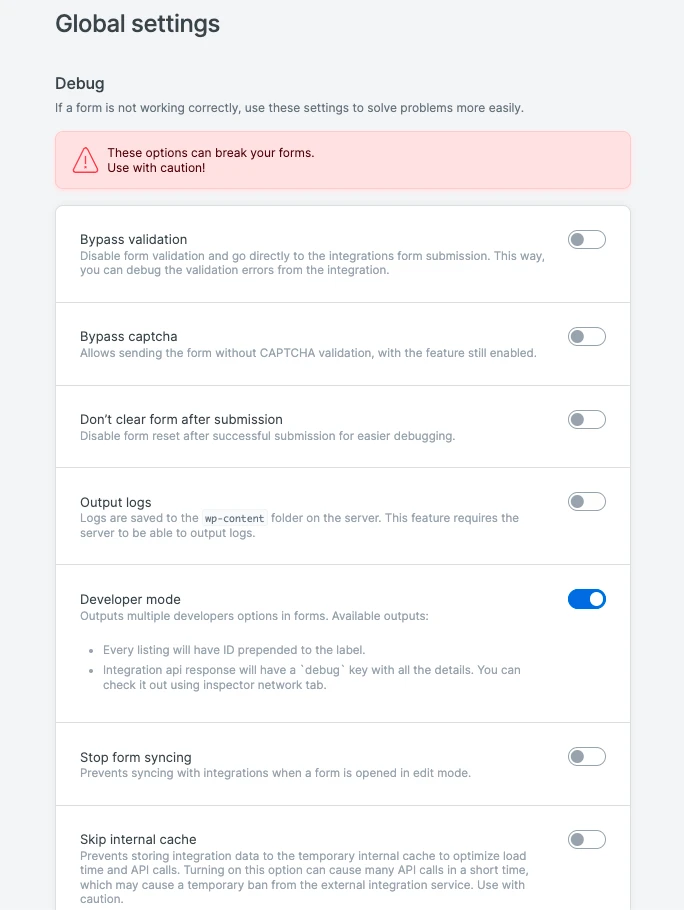
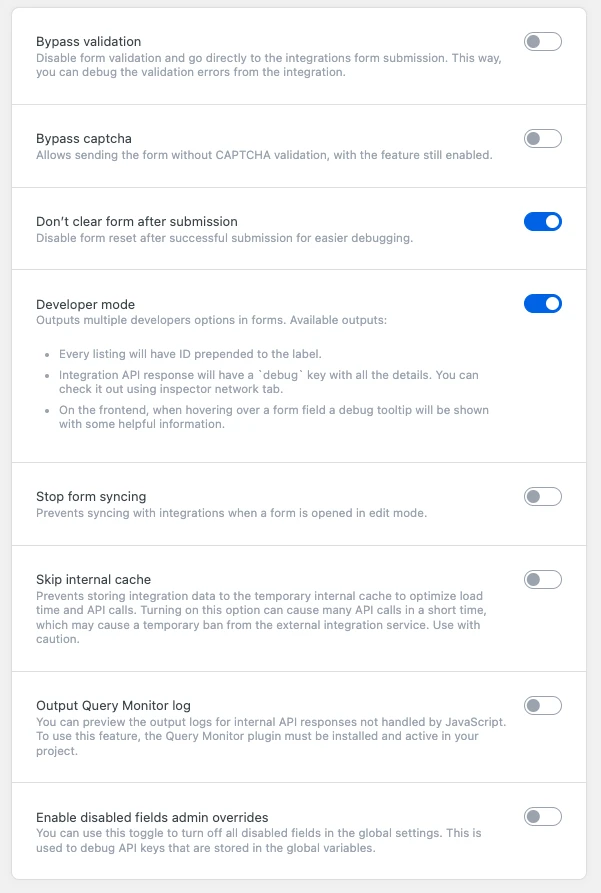
updating debug docs

diff --git a/website/forms/features/debug.md b/website/forms/features/debug.md
@@ -6,3 +6,36 @@ title: Debugging
 The debugging screen provides configuration options and overrides default functionalities for developers, but caution should be used as these options can break form functionality.
 
 ![Debug screen](/img/forms/debug.webp)
+
+
+## Bypass validation
+
+When a form is submitted, an internal validator is triggered to validate the form. Once all internal validations are successfully passed, the form data is sent to the integration. With this toggle, you have the option to bypass internal validation for all forms and directly send the data to the integration.
+
+## Bypass captcha
+
+This toggle allows sending the form without CAPTCHA validation while enabling the feature. It is helpful for testing or running automated tests.
+
+## Don’t clear form after submission
+
+After the form is successfully submitted, all fields will be reset to their original state. This toggle will allow duplicate submissions with the same data.
+
+## Developer mode
+
+Enabling the developer mode will provide various small yet helpful features to simplify the debugging process.
+
+## Stop form syncing
+
+When editing integration forms, a re-sync occurs whenever you open a block editor page. This ensures that forms are always up-to-date with external integrations whenever you want to edit them. However, if you prefer to sync your forms manually, you can use the toggle to prevent this automatic behavior.
+
+## Skip internal cache
+
+This option prevents storing integration data in the temporary internal cache to optimize load time and API calls. Turning on this option can cause many API calls in a short time, which may cause a temporary ban from the external integration service. Use with caution.
+
+## Output Query Monitor log
+
+If you encounter issues with PHP functions, you can debug them using an external Query Monitor plugin. This plugin allows you to log API data without the user being able to see it. However, you must first install and activate the Query Monitor plugin in your project to use this feature.
+
+## Enable disabled fields admin overrides
+
+The WP admin cannot modify global constants stored in wp-config.php. However, with this toggle, you can temporarily override these settings for debugging purposes. This is useful when debugging API connections on external servers.
